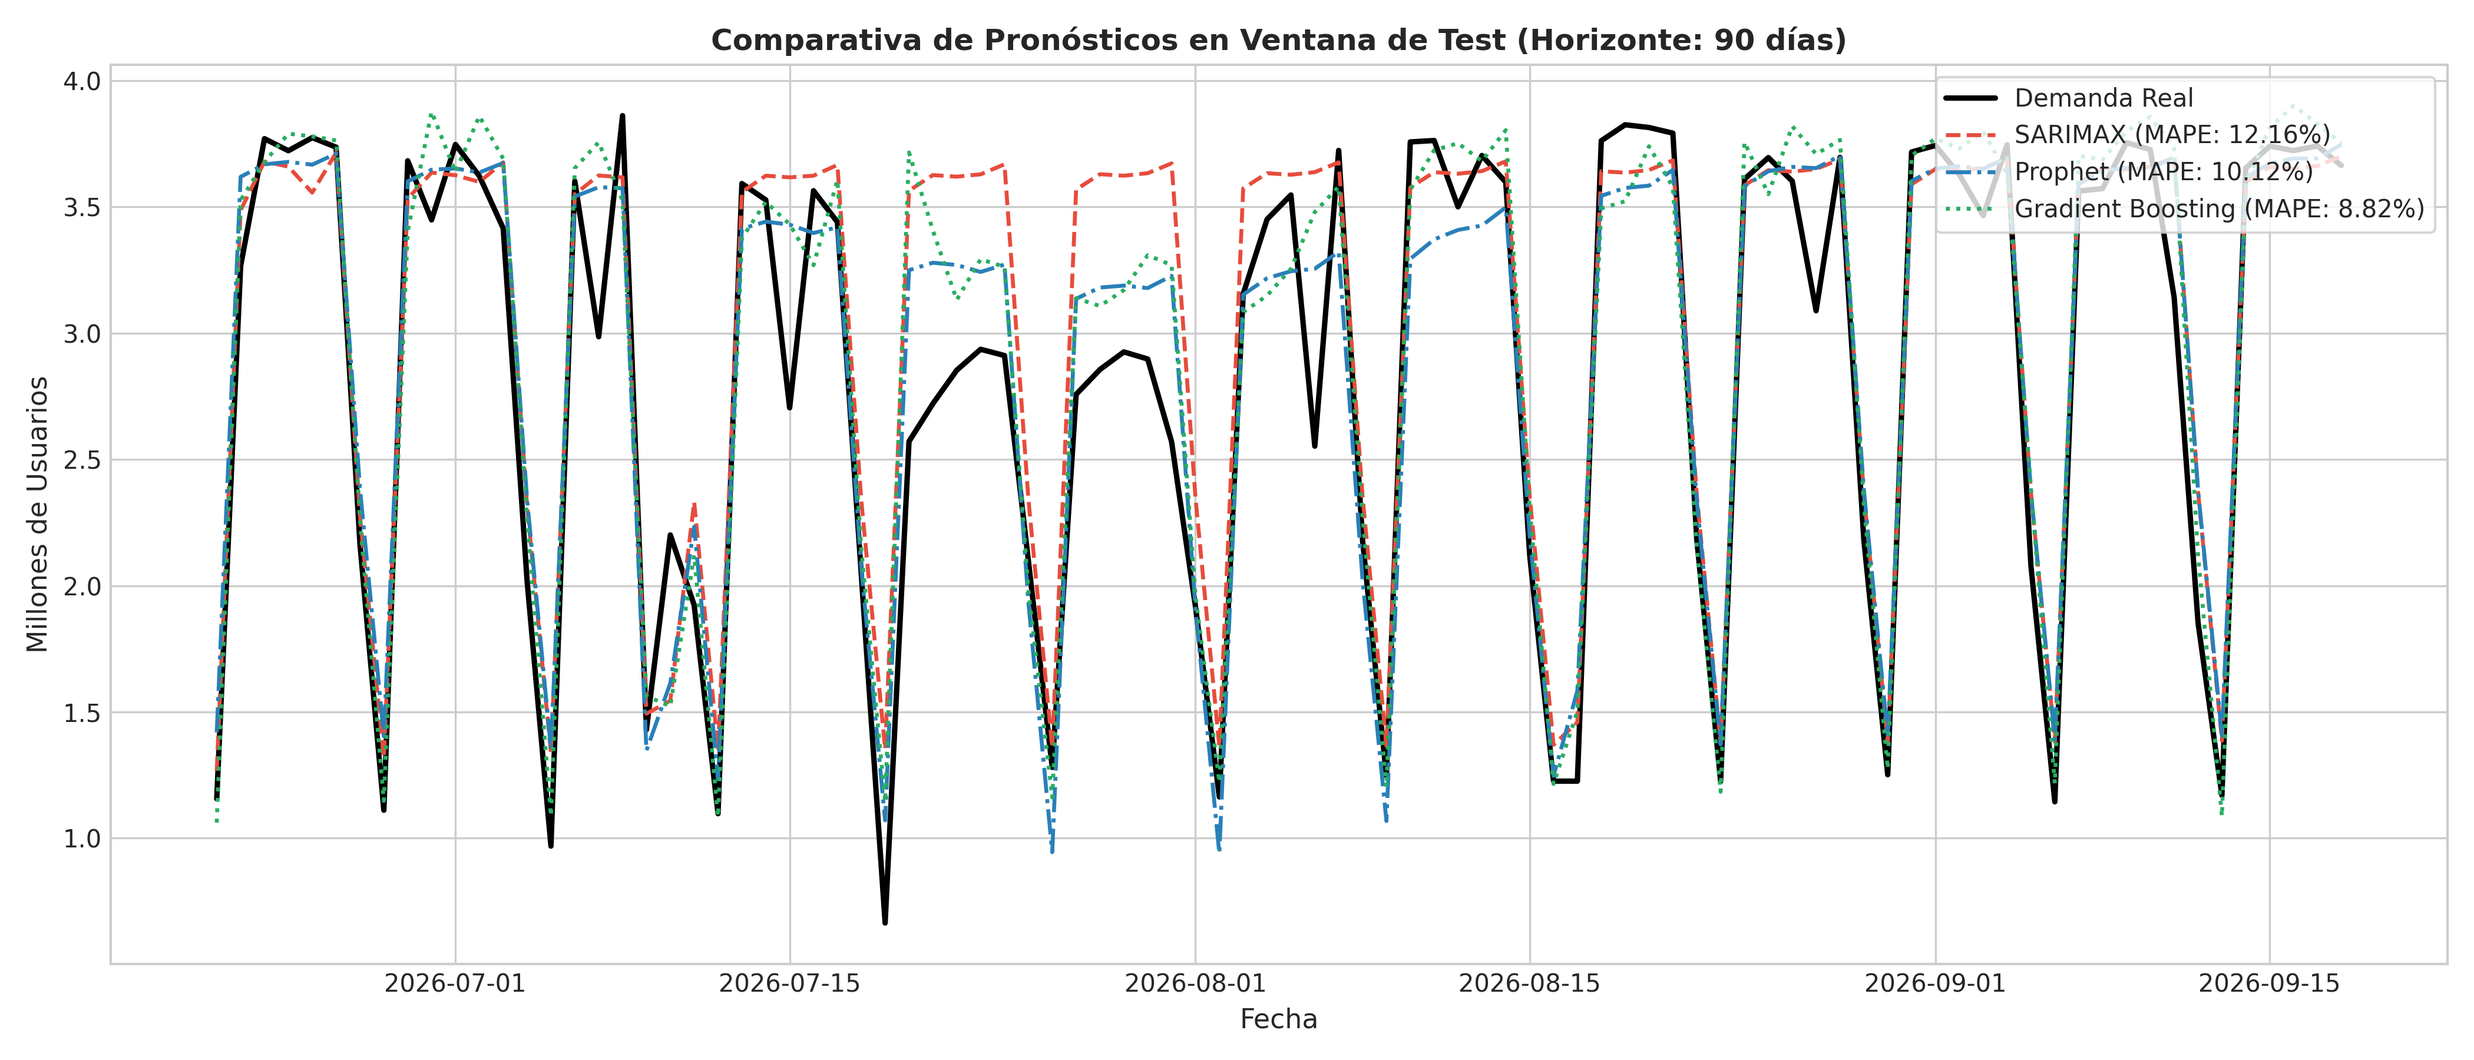
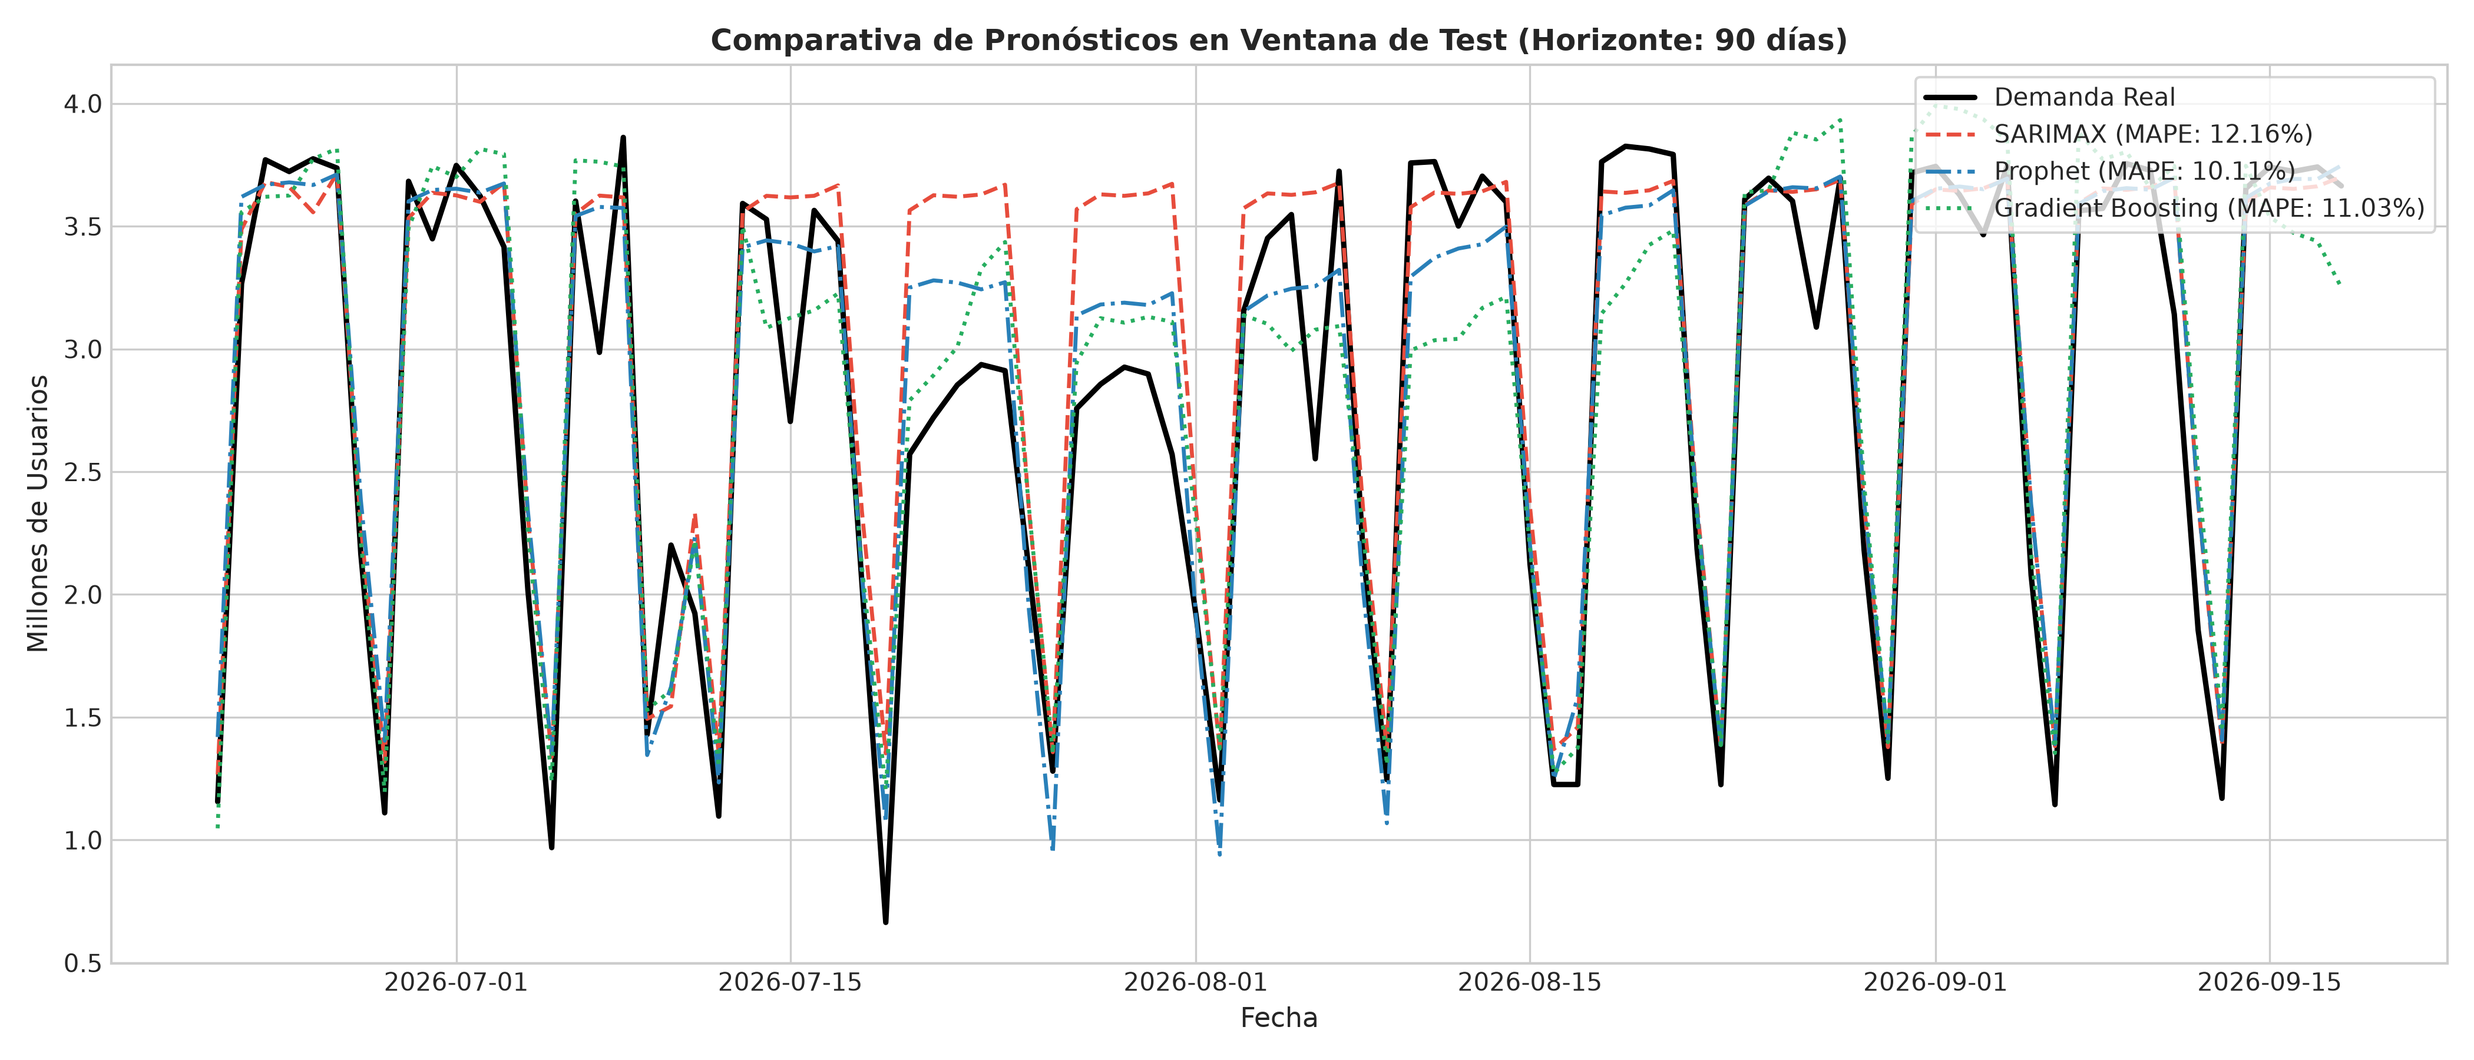
Fase 1b: corrige la fuga de información en Seasonal Naive y Gradient Boosting
Los dos modelos usaban valores reales del tramo de test. Seasonal Naive repite
ahora la última semana observada del entrenamiento y Gradient Boosting hace
pronóstico recursivo a 90 días. Los modelos pasan a modelos_pronostico.py, donde
solo pueden usar datos hasta una fecha de corte. verificar_sin_fuga.py lo
comprueba reemplazando el futuro por basura (con control que falla).

MAPE: Gradient Boosting 8,82% -> 11,03%; Seasonal Naive 16,05% -> 19,68%;
Prophet 10,11% y SARIMAX 12,16% sin cambios. Prophet pasa a ser el mejor.

diff --git a/scripts/analisis_series_tiempo_sube.py b/scripts/analisis_series_tiempo_sube.py
@@ -15,15 +15,13 @@ import seaborn as sns
 import statsmodels.api as sm
 from statsmodels.tsa.stattools import adfuller, kpss
 from statsmodels.tsa.seasonal import STL
-from statsmodels.tsa.statespace.sarimax import SARIMAX
 from statsmodels.graphics.tsaplots import plot_acf, plot_pacf
 from statsmodels.stats.diagnostic import acorr_ljungbox
 
-# Prophet
-from prophet import Prophet
+# Modelos de pronóstico (sin fuga de información)
+import modelos_pronostico as mp
 
 # Scikit-learn
-from sklearn.ensemble import HistGradientBoostingRegressor
 from sklearn.metrics import mean_squared_error, mean_absolute_error, mean_absolute_percentage_error
 
 # Configuración visual
@@ -242,82 +240,28 @@ def train_and_evaluate_forecasting_models(df):
     train_df = df_model.iloc[:-test_days].copy()
     test_df = df_model.iloc[-test_days:].copy()
 
-    y_train = train_df['total_amba'] / 1e6
     y_test = test_df['total_amba'] / 1e6
-
-    exog_cols = ['es_dia_habil', 'es_fin_de_semana', 'es_feriado']
-    exog_train = train_df[exog_cols]
-    exog_test = test_df[exog_cols]
 
     predictions = pd.DataFrame(index=test_df.index)
     predictions['Real'] = y_test
 
-    # 1. Baseline: Seasonal Naïve (s=7)
-    s_naive = []
-    full_y = df_model['total_amba'] / 1e6
-    for date in test_df.index:
-        s_naive.append(full_y.loc[date - pd.Timedelta(days=7)])
-    predictions['Seasonal_Naive'] = s_naive
+    # Cada modelo solo ve datos hasta `fin_train` (ver modelos_pronostico.py).
+    fin_train = train_df.index[-1]
+
+    # 1. Baseline: Seasonal Naïve (s=7), repite la última semana observada del entrenamiento
+    predictions['Seasonal_Naive'] = mp.seasonal_naive(df_model, fin_train, test_days)
 
     # 2. Modelo SARIMAX (1, 1, 1) x (1, 1, 1, 7) con exógenas
     print("  - Ajustando SARIMAX(1, 1, 1)x(1, 1, 1, 7) con variables exógenas...")
-    sarimax_mod = SARIMAX(
-        y_train,
-        exog=exog_train,
-        order=(1, 1, 1),
-        seasonal_order=(1, 1, 1, 7),
-        enforce_stationarity=False,
-        enforce_invertibility=False
-    )
-    sarimax_res = sarimax_mod.fit(disp=False)
-    predictions['SARIMAX'] = sarimax_res.forecast(steps=test_days, exog=exog_test)
+    predictions['SARIMAX'], sarimax_res = mp.sarimax(df_model, fin_train, test_days)
 
     # 3. Modelo Facebook Prophet
     print("  - Ajustando Facebook Prophet con feriados y estacionalidades...")
-    prophet_train = pd.DataFrame({
-        'ds': train_df.index,
-        'y': y_train.values,
-        'es_dia_habil': train_df['es_dia_habil'].values,
-        'es_feriado': train_df['es_feriado'].values
-    })
-    
-    m_prophet = Prophet(
-        weekly_seasonality=True,
-        yearly_seasonality=True,
-        daily_seasonality=False,
-        changepoint_prior_scale=0.05
-    )
-    m_prophet.add_country_holidays(country_name='AR')
-    m_prophet.add_regressor('es_dia_habil')
-    m_prophet.add_regressor('es_feriado')
-    m_prophet.fit(prophet_train)
+    predictions['Prophet'] = mp.prophet(df_model, fin_train, test_days)
 
-    future = pd.DataFrame({
-        'ds': test_df.index,
-        'es_dia_habil': test_df['es_dia_habil'].values,
-        'es_feriado': test_df['es_feriado'].values
-    })
-    prophet_fcst = m_prophet.predict(future)
-    predictions['Prophet'] = prophet_fcst['yhat'].values
-
-    # 4. Modelo Machine Learning (HistGradientBoosting con retardos)
-    print("  - Ajustando Gradient Boosting Regressor con lags...")
-    df_feat = df_model.copy()
-    for lag in [1, 2, 7, 14, 21, 28]:
-        df_feat[f'lag_{lag}'] = df_feat['total_amba'].shift(lag) / 1e6
-    df_feat['rolling_mean_7'] = (df_feat['total_amba'] / 1e6).shift(1).rolling(7).mean()
-    df_feat['rolling_std_7'] = (df_feat['total_amba'] / 1e6).shift(1).rolling(7).std()
-    
-    feature_cols = [c for c in df_feat.columns if c.startswith('lag_') or c.startswith('rolling_')] + exog_cols + ['dia_semana', 'mes']
-    df_feat = df_feat.dropna()
-
-    X_tr = df_feat.loc[df_feat.index < test_df.index[0], feature_cols]
-    y_tr = df_feat.loc[df_feat.index < test_df.index[0], 'total_amba'] / 1e6
-    X_te = df_feat.loc[test_df.index, feature_cols]
-
-    gbr = HistGradientBoostingRegressor(max_iter=200, random_state=42)
-    gbr.fit(X_tr, y_tr)
-    predictions['Gradient_Boosting'] = gbr.predict(X_te)
+    # 4. Machine Learning (HistGradientBoosting con retardos, pronóstico recursivo)
+    print("  - Ajustando Gradient Boosting con lags (pronóstico recursivo a 90 días)...")
+    predictions['Gradient_Boosting'] = mp.gradient_boosting_recursivo(df_model, fin_train, test_days)
 
     # Cálculo de Métricas de Evaluación
     metrics_list = []

diff --git a/scripts/modelos_pronostico.py b/scripts/modelos_pronostico.py
@@ -1,0 +1,102 @@
+"""
+Modelos de pronóstico sin fuga de información.
+
+Cada función recibe la serie completa `df` (índice diario) y una fecha de corte
+`fin_train`. Solo se usan observaciones de `total_amba` hasta `fin_train`; del
+futuro únicamente se usa el calendario (feriados, fines de semana), que se conoce
+de antemano. Devuelven un `pd.Series` indexado por las fechas pronosticadas.
+
+Esto permite repetir la evaluación en varios cortes (rolling origin).
+"""
+
+import numpy as np
+import pandas as pd
+from statsmodels.tsa.statespace.sarimax import SARIMAX
+from prophet import Prophet
+from sklearn.ensemble import HistGradientBoostingRegressor
+
+EXOG_COLS = ['es_dia_habil', 'es_fin_de_semana', 'es_feriado']
+LAGS = [1, 2, 7, 14, 21, 28]
+
+
+def _dividir(df, fin_train, horizonte):
+    fin_train = pd.Timestamp(fin_train)
+    train = df.loc[:fin_train]
+    futuro = df.loc[fin_train + pd.Timedelta(days=1):].iloc[:horizonte]
+    if len(futuro) < horizonte:
+        raise ValueError("No hay suficientes fechas después del corte para el horizonte pedido")
+    return train, futuro
+
+
+def seasonal_naive(df, fin_train, horizonte, s=7):
+    """Repite la última semana observada del entrenamiento (no usa nada del test)."""
+    train, futuro = _dividir(df, fin_train, horizonte)
+    ultimo_ciclo = (train['total_amba'] / 1e6).iloc[-s:].values
+    pred = [ultimo_ciclo[i % s] for i in range(horizonte)]
+    return pd.Series(pred, index=futuro.index)
+
+
+def sarimax(df, fin_train, horizonte, order=(1, 1, 1), seasonal_order=(1, 1, 1, 7)):
+    train, futuro = _dividir(df, fin_train, horizonte)
+    mod = SARIMAX(train['total_amba'] / 1e6, exog=train[EXOG_COLS], order=order,
+                  seasonal_order=seasonal_order, enforce_stationarity=False,
+                  enforce_invertibility=False)
+    res = mod.fit(disp=False)
+    pred = res.forecast(steps=horizonte, exog=futuro[EXOG_COLS])
+    return pd.Series(np.asarray(pred), index=futuro.index), res
+
+
+def prophet(df, fin_train, horizonte):
+    train, futuro = _dividir(df, fin_train, horizonte)
+    d_train = pd.DataFrame({'ds': train.index, 'y': (train['total_amba'] / 1e6).values,
+                            'es_dia_habil': train['es_dia_habil'].values,
+                            'es_feriado': train['es_feriado'].values})
+    m = Prophet(weekly_seasonality=True, yearly_seasonality=True, daily_seasonality=False,
+                changepoint_prior_scale=0.05)
+    m.add_country_holidays(country_name='AR')
+    m.add_regressor('es_dia_habil')
+    m.add_regressor('es_feriado')
+    m.fit(d_train)
+    d_fut = pd.DataFrame({'ds': futuro.index, 'es_dia_habil': futuro['es_dia_habil'].values,
+                          'es_feriado': futuro['es_feriado'].values})
+    return pd.Series(m.predict(d_fut)['yhat'].values, index=futuro.index)
+
+
+def _features(hist, fecha, fila):
+    """Features de un día usando solo `hist` (dict fecha -> valor en millones)."""
+    f = {f'lag_{l}': hist[fecha - pd.Timedelta(days=l)] for l in LAGS}
+    ult7 = [hist[fecha - pd.Timedelta(days=k)] for k in range(1, 8)]
+    f['rolling_mean_7'] = float(np.mean(ult7))
+    f['rolling_std_7'] = float(np.std(ult7, ddof=1))
+    for c in EXOG_COLS:
+        f[c] = fila[c]
+    f['dia_semana'] = fecha.dayofweek
+    f['mes'] = fecha.month
+    return f
+
+
+def gradient_boosting_recursivo(df, fin_train, horizonte, random_state=42):
+    """Gradient boosting con rezagos y pronóstico recursivo.
+
+    Entrena con rezagos reales y, para pronosticar, alimenta cada paso con las
+    predicciones previas: el rezago 1 de un día a 60 pasos del corte es una predicción,
+    no una observación.
+    """
+    train, futuro = _dividir(df, fin_train, horizonte)
+    y = train['total_amba'] / 1e6
+    hist = dict(y.items())
+    X, objetivo = [], []
+    for fecha in train.index[max(LAGS):]:
+        X.append(_features(hist, fecha, train.loc[fecha]))
+        objetivo.append(y.loc[fecha])
+    X = pd.DataFrame(X)
+    cols = list(X.columns)
+    modelo = HistGradientBoostingRegressor(max_iter=200, random_state=random_state).fit(X, objetivo)
+
+    pred = []
+    for fecha in futuro.index:
+        x = pd.DataFrame([_features(hist, fecha, futuro.loc[fecha])])[cols]
+        p = float(modelo.predict(x)[0])
+        hist[fecha] = p
+        pred.append(p)
+    return pd.Series(pred, index=futuro.index)

diff --git a/scripts/verificar_sin_fuga.py b/scripts/verificar_sin_fuga.py
@@ -1,0 +1,62 @@
+"""
+Verifica que los modelos de `modelos_pronostico.py` no usan información posterior al corte.
+
+Prueba: se reemplazan los valores de `total_amba` posteriores a `fin_train` por basura
+(x10). Si el pronóstico no usa el futuro, no puede cambiar. Como control se incluye la
+fórmula original del Seasonal Naïve (full_y.loc[fecha - 7 días]), que sí debe fallar.
+"""
+
+import os
+import sys
+import warnings
+import numpy as np
+import pandas as pd
+
+warnings.filterwarnings('ignore')
+sys.path.insert(0, os.path.dirname(__file__))
+
+import modelos_pronostico as mp
+from analisis_series_tiempo_sube import load_and_preprocess_data
+
+HORIZONTE = 90
+
+
+def naive_original(df, fin_train, horizonte):
+    """Fórmula del script original: toma el valor de hace 7 días de la serie completa."""
+    futuro = df.loc[pd.Timestamp(fin_train) + pd.Timedelta(days=1):].iloc[:horizonte]
+    y = df['total_amba'] / 1e6
+    return pd.Series([y.loc[d - pd.Timedelta(days=7)] for d in futuro.index], index=futuro.index)
+
+
+def main():
+    df = load_and_preprocess_data()
+    df = df[df.index >= '2022-01-01'].copy()
+    fin_train = df.index[-HORIZONTE - 1]
+
+    sucio = df.copy()
+    sucio.loc[sucio.index > fin_train, 'total_amba'] *= 10
+
+    pruebas = {
+        'Seasonal_Naive (corregido)': lambda d: mp.seasonal_naive(d, fin_train, HORIZONTE),
+        'Gradient_Boosting (recursivo)': lambda d: mp.gradient_boosting_recursivo(d, fin_train, HORIZONTE),
+        'SARIMAX': lambda d: mp.sarimax(d, fin_train, HORIZONTE)[0],
+        'Prophet': lambda d: mp.prophet(d, fin_train, HORIZONTE),
+        'CONTROL: Seasonal_Naive (original)': lambda d: naive_original(d, fin_train, HORIZONTE),
+    }
+    print(f"Corte: {fin_train.date()}  Horizonte: {HORIZONTE} días\n")
+    ok = True
+    for nombre, f in pruebas.items():
+        a, b = f(df), f(sucio)
+        dif = float(np.max(np.abs(a.values - b.values)))
+        sin_fuga = dif < 1e-9
+        esperado = not nombre.startswith('CONTROL')
+        estado = 'OK' if sin_fuga == esperado else 'FALLA'
+        ok &= (sin_fuga == esperado)
+        print(f"[{estado}] {nombre:38s} diferencia máxima = {dif:.6f}"
+              f"  ({'sin fuga' if sin_fuga else 'USA datos del futuro'})")
+    print("\nResultado:", "todas las verificaciones pasaron" if ok else "HAY FALLAS")
+    sys.exit(0 if ok else 1)
+
+
+if __name__ == '__main__':
+    main()

diff --git a/docs/registro_de_cambios.md b/docs/registro_de_cambios.md
@@ -77,16 +77,42 @@ El spline llega a valores negativos con huecos largos.
 
 ---
 
-## 4. Hallazgos todavía sin corregir en el código (a resolver a continuación)
+## 4. Corrección de la fuga de información en la comparación de modelos (Fase 1b)
 
-Estos dos puntos afectan la comparación de modelos de la Pregunta 2. Se verificaron con un experimento aparte, y se corregirán en el pipeline.
+**Qué se encontró:** dos de los cuatro modelos usaban valores reales del tramo de test, de modo que no pronosticaban realmente 90 días hacia adelante.
 
-| Qué | Por qué es un problema | Evidencia |
+| Modelo | Problema | Cómo se corrigió |
 |---|---|---|
-| **Gradient Boosting** usa `lag_1`, `lag_2` y `rolling_mean_7` calculados sobre toda la serie y los toma del tramo de test con valores reales | Equivale a predecir cada día conociendo el anterior, no a pronosticar 90 días. Los otros modelos sí pronostican 90 días. | MAPE 8,65–8,82% con el esquema original; **11,03%** con pronóstico recursivo a 90 días. |
-| **Seasonal Naïve** usa `full_y.loc[fecha - 7 días]` | Pasada la primera semana del test, toma valores reales del propio test en lugar de un pronóstico a 90 días. | MAPE 16,05% con el esquema original; **19,68%** repitiendo la última semana observada del entrenamiento. |
+| **Seasonal Naïve** | Usaba `full_y.loc[fecha - 7 días]` de la serie completa. Pasada la primera semana del test tomaba valores reales del propio test. | Repite la **última semana observada del entrenamiento**. |
+| **Gradient Boosting** | Calculaba `lag_1`, `lag_2`, `rolling_mean_7` y `rolling_std_7` sobre toda la serie y los tomaba del test con valores reales. Equivalía a predecir cada día conociendo el anterior. | **Pronóstico recursivo**: entrena con rezagos reales y, al pronosticar, alimenta cada paso con las predicciones anteriores. |
 
-Efecto probable: con ambas líneas base corregidas, Prophet (10,11%) pasa a ser el mejor, por encima de Gradient Boosting (11,03%). Es una sola ventana de test y falta evaluar con varios orígenes y con un test de significancia.
+SARIMAX y Prophet ya pronosticaban a 90 días y **no se modificaron**: se mantienen sus parámetros originales, para que cualquier diferencia en los resultados se deba solo a las dos correcciones.
+
+**Qué se cambió en el código:**
+- `scripts/modelos_pronostico.py` (nuevo): los cuatro modelos como funciones que reciben la serie completa y una fecha de corte, y solo pueden usar datos hasta ese corte (más el calendario, que se conoce de antemano). Sirve además para evaluar en varios cortes más adelante.
+- `scripts/analisis_series_tiempo_sube.py`: la función de entrenamiento ahora llama a ese módulo. Las métricas y figuras se generan igual que antes.
+- `scripts/verificar_sin_fuga.py` (nuevo): reemplaza los valores reales posteriores al corte por basura (x10); si un modelo no usa el futuro, sus pronósticos no pueden cambiar. Incluye como control la fórmula original del Naïve, que sí falla la prueba. Resultado: los cuatro modelos corregidos pasan; el control falla (diferencia máxima 34,75).
+
+**Efecto sobre los resultados** (misma ventana de 90 días, 21-jun a 18-sep de 2026):
+
+| Modelo | MAPE original | MAPE corregido | RMSE (M) | MAE (M) |
+|---|---|---|---|---|
+| Prophet | 10,12% | **10,11%** | 0,289 | 0,225 |
+| Gradient Boosting | 8,82% | **11,03%** | 0,341 | 0,278 |
+| SARIMAX | 12,16% | 12,16% | 0,386 | 0,271 |
+| Seasonal Naïve | 16,05% | **19,68%** | 0,924 | 0,557 |
+
+(La diferencia en Prophet, 10,12% a 10,11%, es ruido numérico por la versión de las librerías.)
+
+Lo que cambia:
+- Prophet pasa a ser el mejor, por encima de Gradient Boosting.
+- El Naïve empeora (era más fácil de lo que parecía por la fuga), así que las reducciones de error respecto de él cambian: Prophet −49%, Gradient Boosting −44%, SARIMAX −38% (antes −37%, −45% y −24%).
+- El orden de los modelos depende de la métrica: por MAE, SARIMAX (0,271) supera a Gradient Boosting (0,278); por RMSE y MAPE no.
+- **Gradient Boosting recursivo pierde nivel** al alejarse del corte, porque cada paso hereda el error del anterior (se ve en la figura 5 desde fines de agosto). Es un punto a explicar en la discusión de la Pregunta 2.
+
+**Qué sigue sin cambiar:** es una sola ventana de test y no hay test de significancia, así que estos números no alcanzan para afirmar que un modelo es mejor que otro (ver sección 5).
+
+**Nota técnica:** Prophet no carga su backend desde Git Bash en Windows; funciona desde PowerShell o CMD.
 
 ---
 

diff --git a/README.md b/README.md
@@ -6,6 +6,8 @@
 [![Prophet](https://img.shields.io/badge/Facebook-Prophet-blueviolet.svg)](https://facebook.github.io/prophet/)
 [![Open Data](https://img.shields.io/badge/Datos%20Abiertos-SUBE%20Argentina-yellow.svg)](https://datos.transporte.gob.ar/)
 
+> **⚠ Trabajo en revisión (rama `trabajo/herramientas-materia`).** Las hipótesis, los veredictos y la tabla de modelos de este README corresponden a la versión inicial y están siendo reemplazados por las Preguntas 1 y 2 del trabajo. En particular, **las métricas de Gradient Boosting y Seasonal Naïve de abajo estaban infladas por fuga de información** y fueron corregidas (ver [`docs/registro_de_cambios.md`](docs/registro_de_cambios.md)).
+
 Este repositorio contiene la investigación, códigos computacionales y modelos predictivos del **Estudio Longitudinal de Series de Tiempo del Transporte Público en el Área Metropolitana de Buenos Aires (AMBA)** en base a microdatos y registros diarios del **Sistema Único de Boleto Electrónico (SUBE)** en el período **2020–2026**.
 
 El proyecto contrasta formalmente hipótesis científicas sobre los **quiebres estructurales post-pandemia**, la **asimetría modal de recuperación** y la **capacidad predictiva de modelos con estacionalidad múltiple y variables exógenas**.
